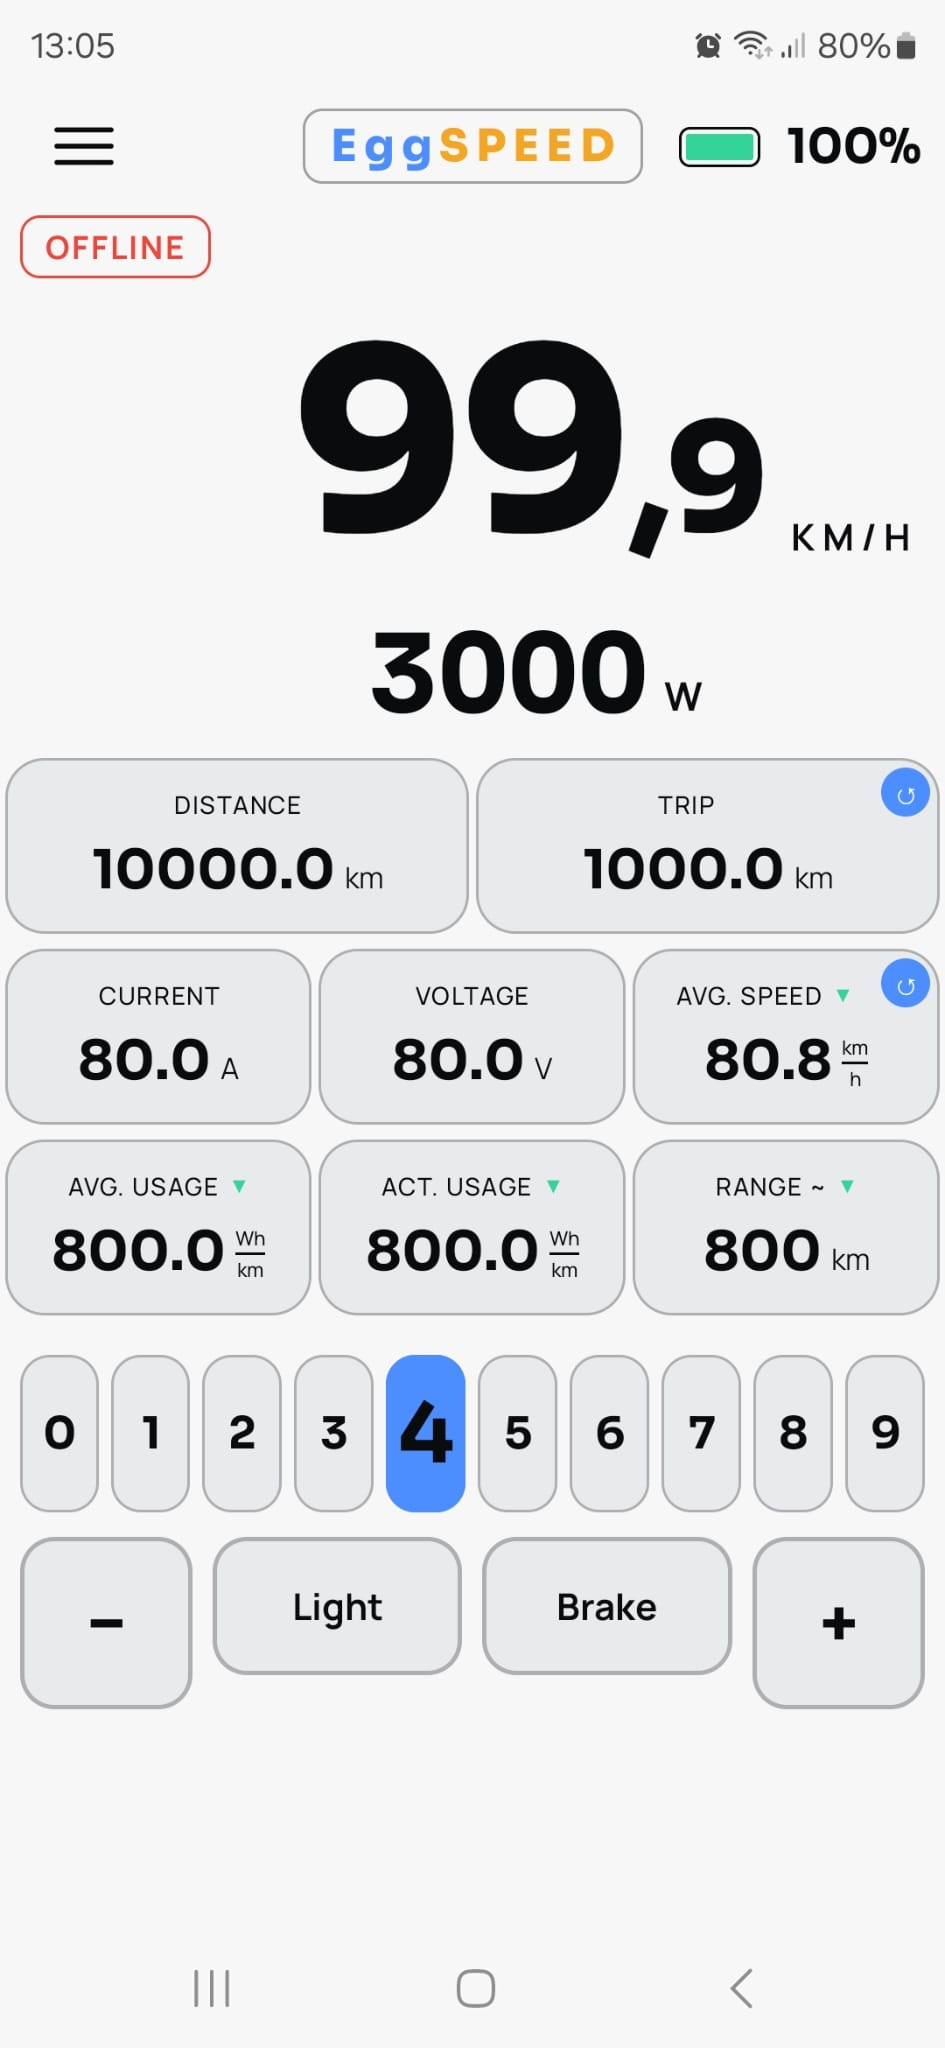
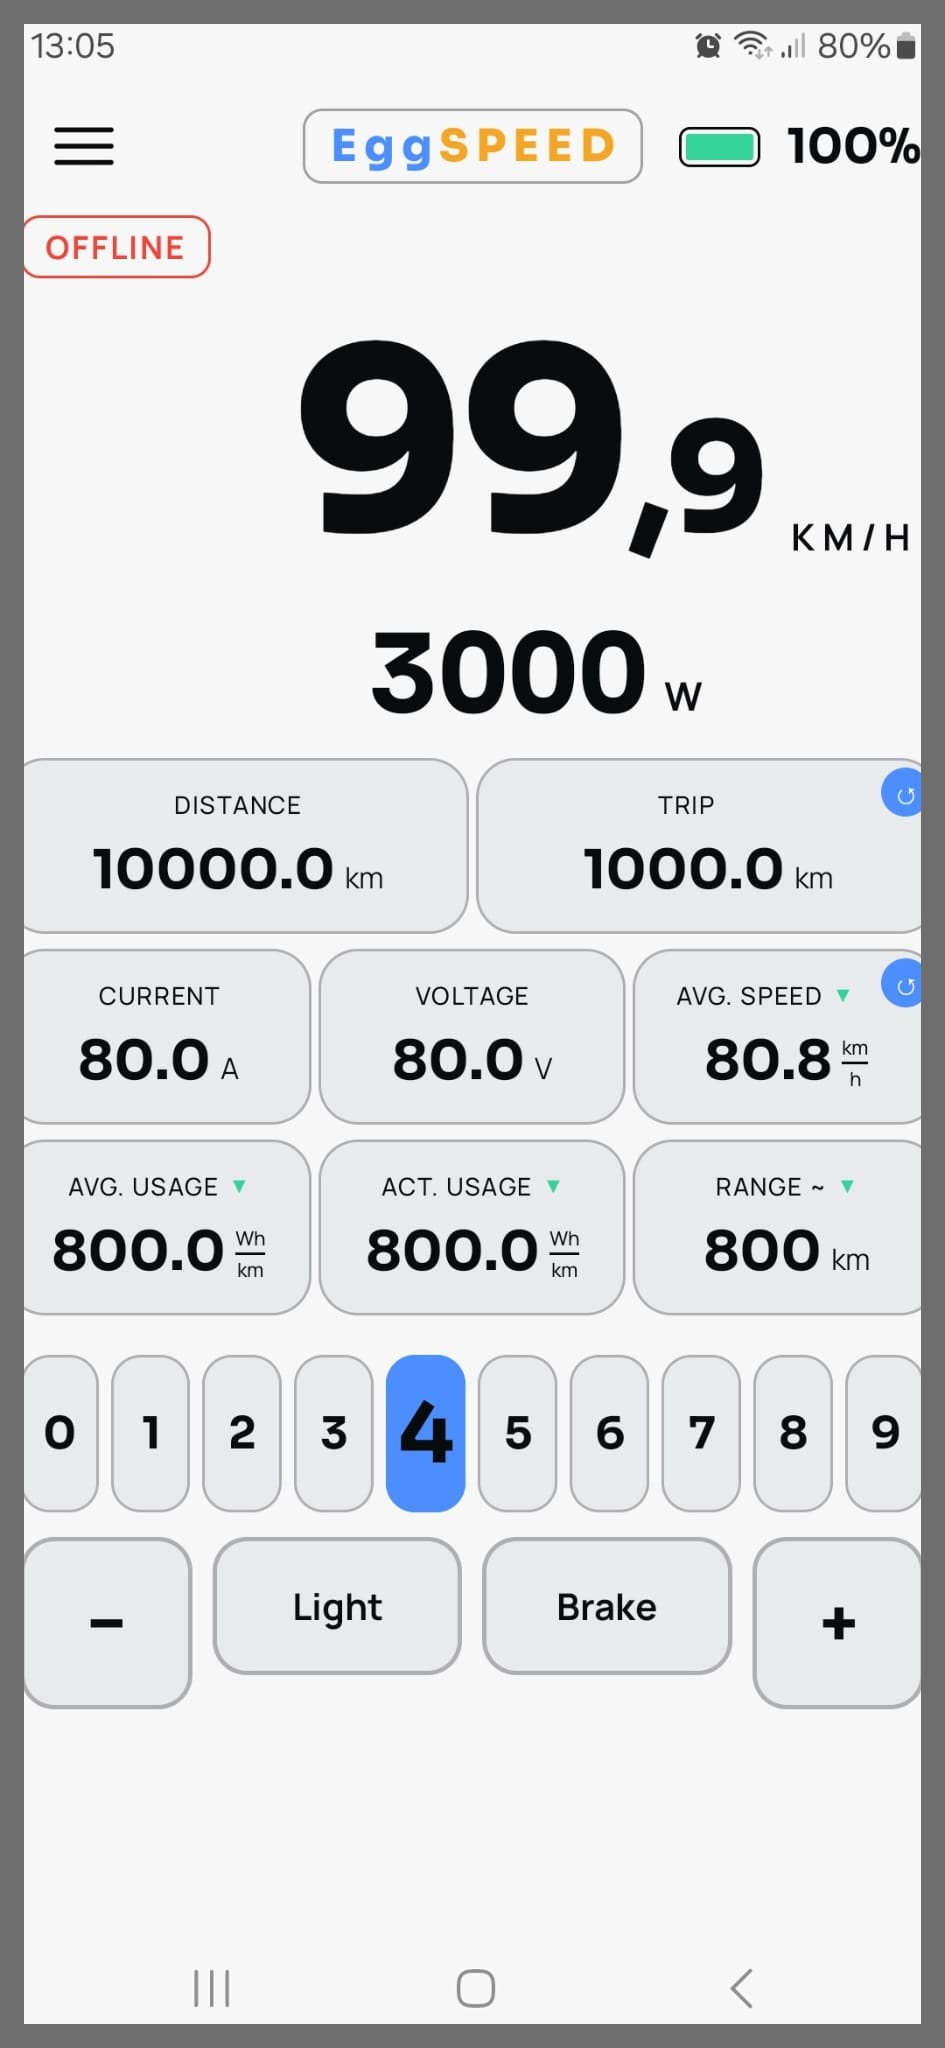
Ramka wypalona bezposrednio w pikselach screena light theme
Style="border" na <img> jest usuwany przez sanityzacje README GitHuba (potwierdzone w
wyrenderowanym HTML - podmienia na wlasny style="max-width:100%"), wiec ramka nigdy nie byla
widoczna mimo poprawnego pusha. Jedyny sposob ktory na pewno przetrwa - ramka jako czesc obrazka.

Changed region(s): [[0.0, 0.0, 1.0, 1.0]]

diff --git a/README.md b/README.md
@@ -34,7 +34,7 @@
   </tr>
   <tr>
     <td><img src="screenshots/12.jpg" width="140" alt="Monitoring screen with Power/Current/Voltage/Speed charts" /></td>
-    <td><img src="screenshots/13.jpg" width="140" alt="Cockpit in Light theme, Test mode showing extreme values" style="border:1px solid #888;" /></td>
+    <td><img src="screenshots/13.jpg" width="140" alt="Cockpit in Light theme, Test mode showing extreme values" /></td>
     <td><img src="screenshots/15.jpg" width="140" alt="Battery SAG Measurement screen with quality legend and guided procedure" /></td>
   </tr>
 </table>
